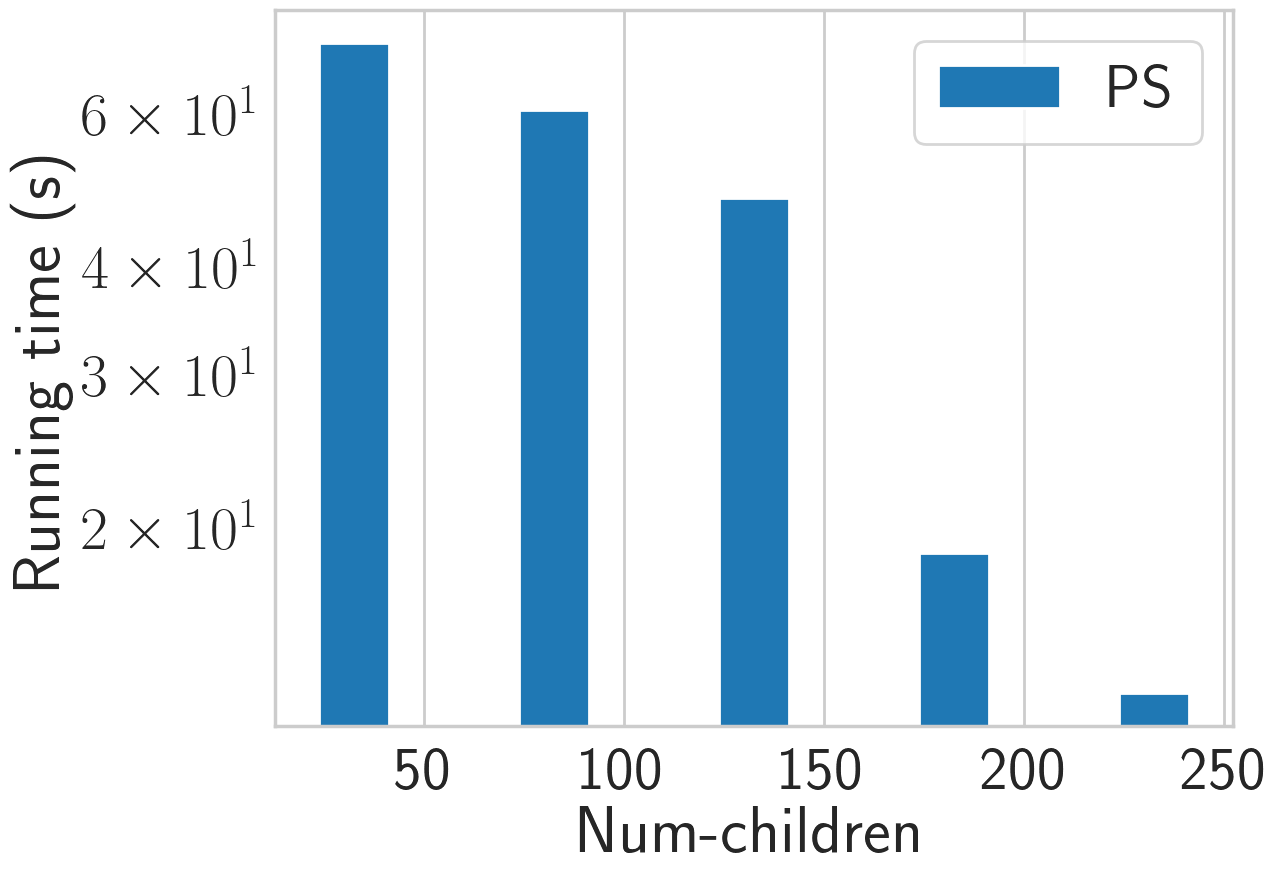
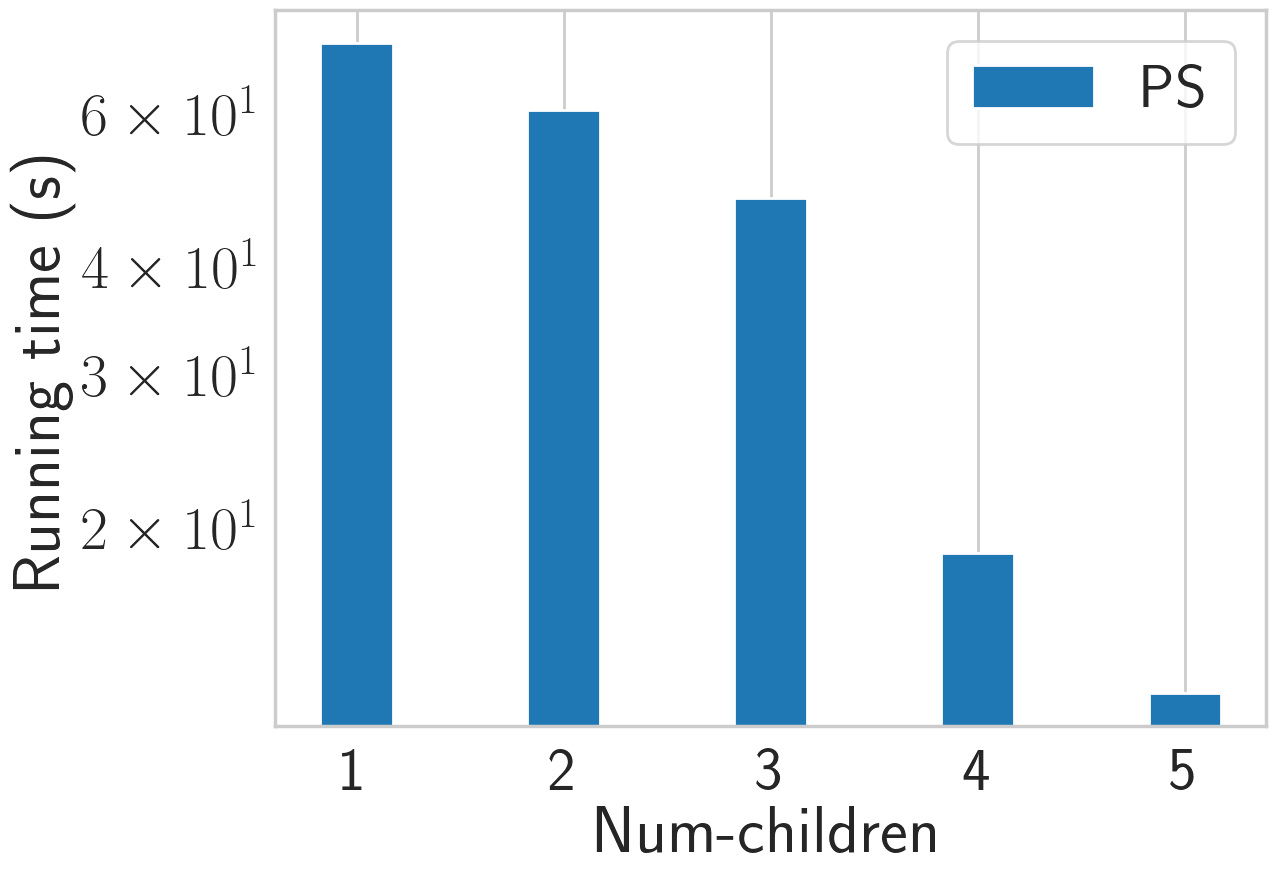
healthcare query change q1c3

diff --git a/Experiment/healthcare/query_change/Q1C3/query_change_q1c3.py b/Experiment/healthcare/query_change/Q1C3/query_change_q1c3.py
@@ -53,8 +53,8 @@ def run_constraint(c):
         print("running time = {}".format(running_time2))
         print(*minimal_refinements1, sep="\n")
         result_output.write("\n")
-        idx = i * 50
-        time_output.write("{}, {:0.2f}, {:0.2f}\n".format(idx, running_time1, running_time2))
+        idx = i
+        time_output.write("{},{:0.2f},{:0.2f}\n".format(idx, running_time1, running_time2))
         result_output.write("{}\n".format(idx))
         result_output.write(", ".join(str(item) for item in minimal_added_refinements1))
         result_output.write("\n")

diff --git a/Experiment/healthcare/query_change/Q1C3/fig.py b/Experiment/healthcare/query_change/Q1C3/fig.py
@@ -59,7 +59,7 @@ fig, ax = plt.subplots(1, 1, figsize=f_size)
 
 plt.bar(index, execution_timeps, bar_width, color=color[0], label=label[0])
 # plt.bar(index + bar_width, execution_timelt, bar_width,  color=color[1], label=label[1])
-plt.xticks(index + bar_width, x_list)
+plt.xticks(index, x_list)
 
 plt.xlabel('Num-children')
 plt.ylabel('Running time (s)')
